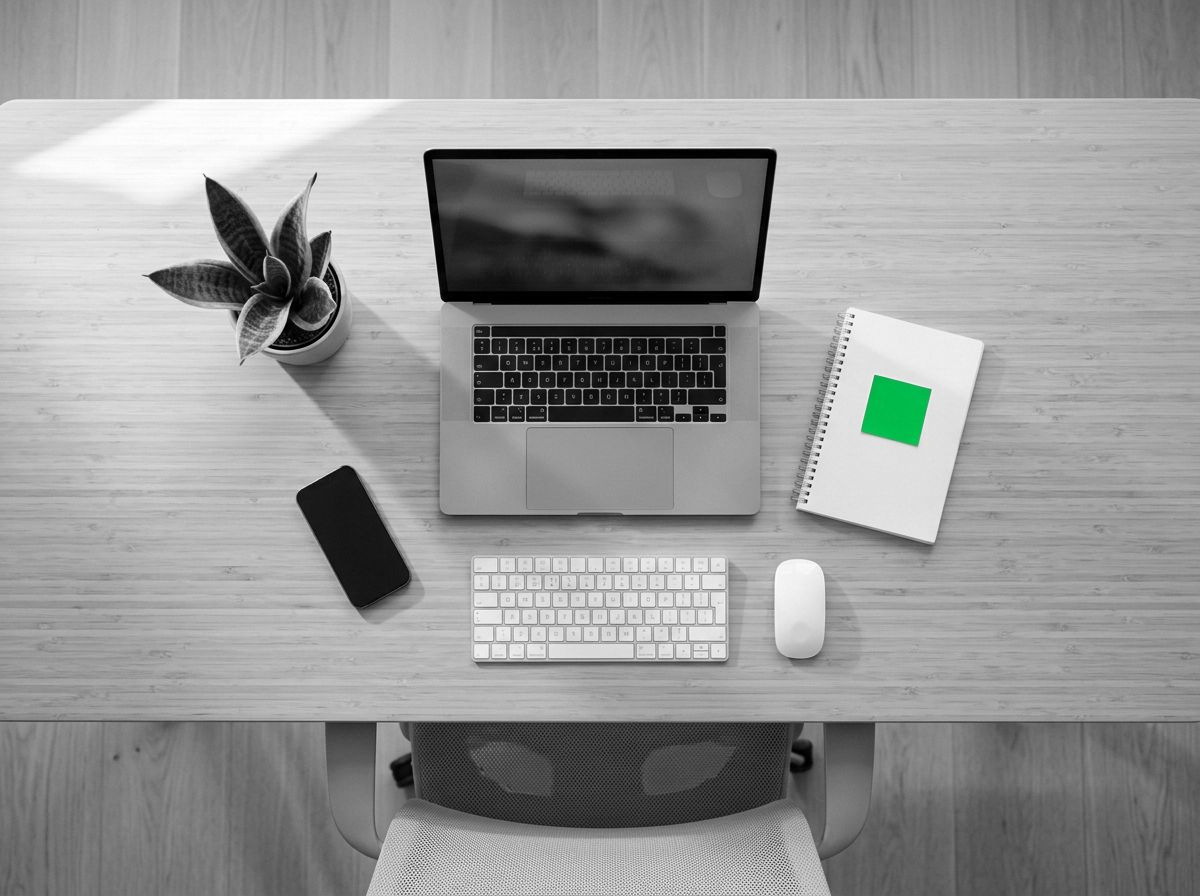
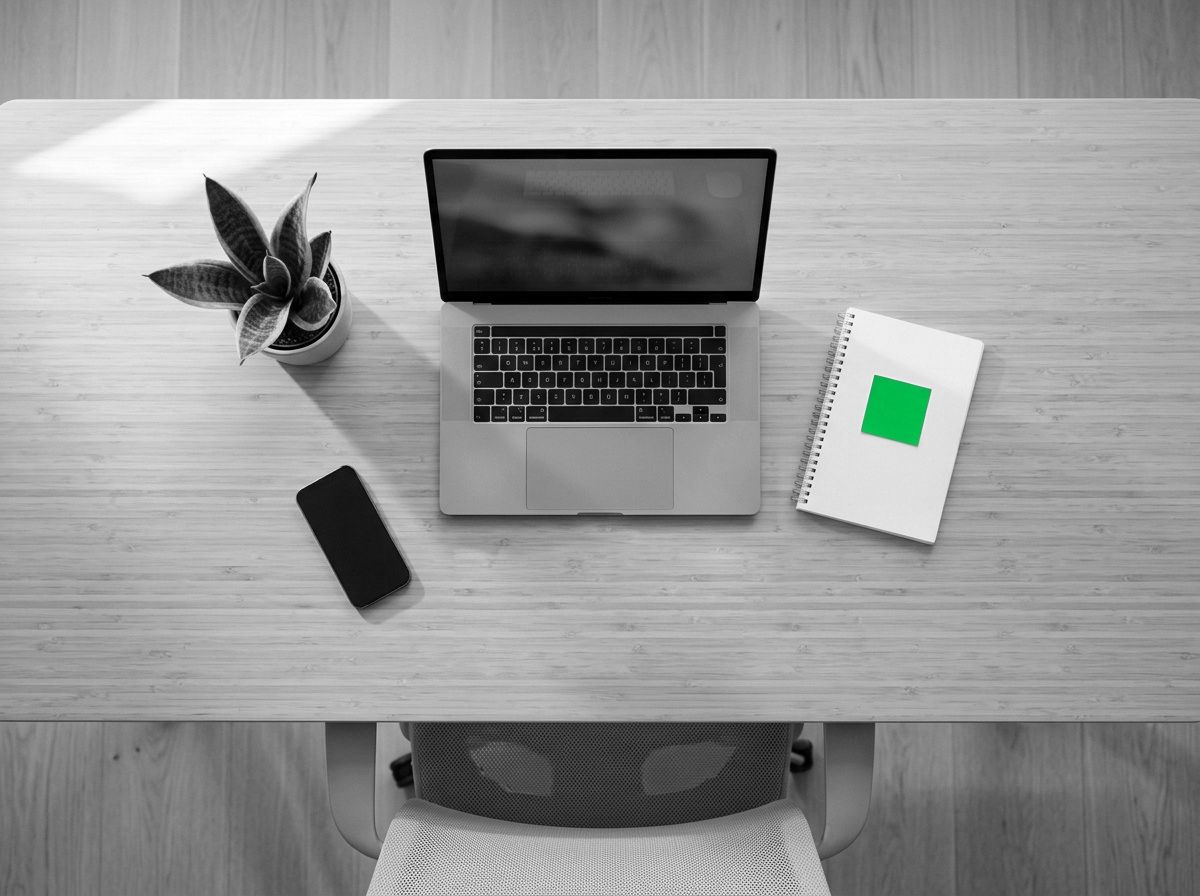
web-s5: Startups desk shows just the laptop

Changed region(s): [[0.37, 0.5938, 0.6167, 0.75], [0.6475, 0.625, 0.7092, 0.75]]

diff --git a/src/content/sections/field.md b/src/content/sections/field.md
@@ -12,7 +12,7 @@ segments:
   - title: Selected startups
     image:
       file: field-startups.jpg
-      alt: A tidy desk with a laptop, keyboard and notebook, seen from above
+      alt: A tidy desk with a laptop, phone and notebook, seen from above
       credit: Generated with Google Gemini, edited by Strategy
     body: Early-stage ventures that are ready for systematic strategy. We are selective. We only take one on if it has real potential and we are sure our involvement will make the difference. Startups can rarely pay full rates, so when we believe in one, we invest part of our time instead.
 ---
